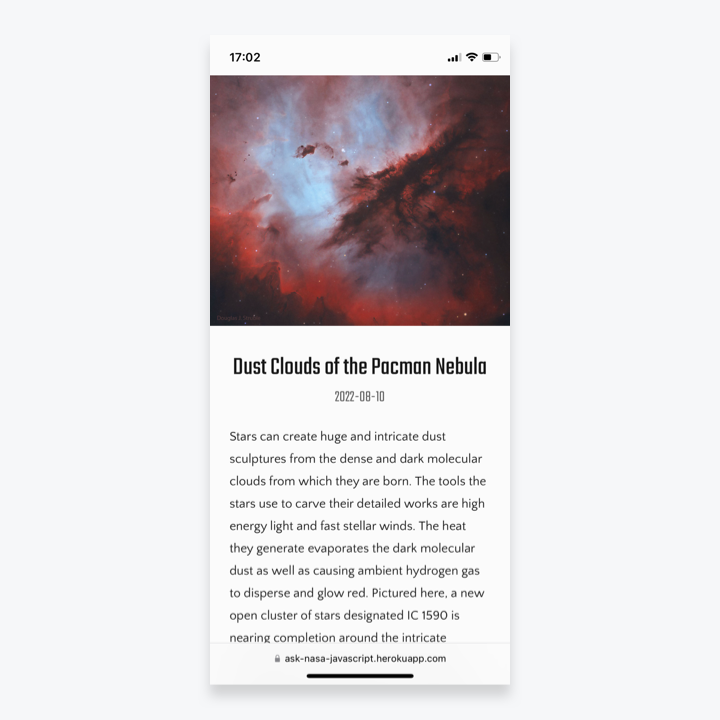
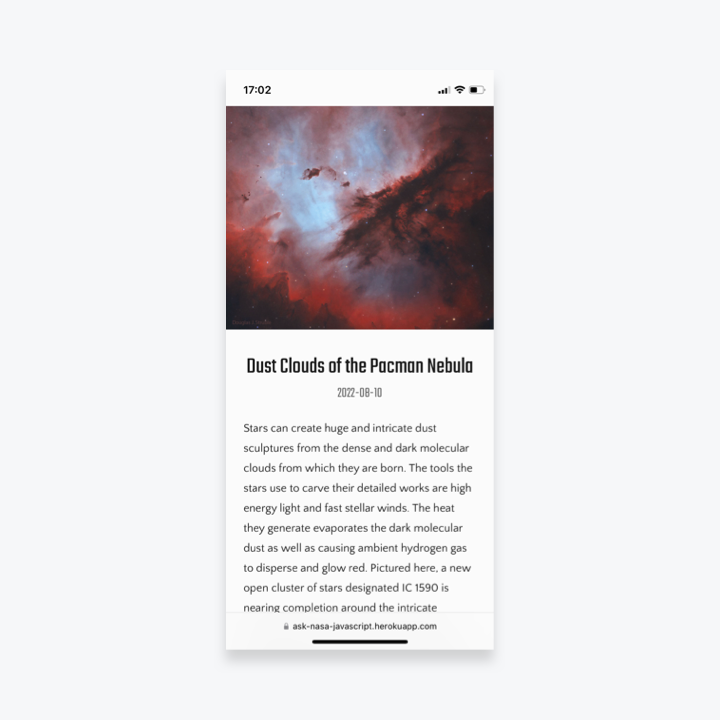
Update images

Changed region(s): [[0.275, 0.0611, 0.7333, 0.4583], [0.275, 0.4889, 0.7028, 0.9778]]

diff --git a/pages/works/[id].jsx b/pages/works/[id].jsx
@@ -71,9 +71,18 @@ const Work = ({ slug, frontmatter, content, images }) => {
           </div>
         }
 
-        <div>
+        <div className={styles.image_container}>
           {images.map((image) => {
-            return(<Image src={image} key={image} objectFit={'contain'} alt={image} width={1200} height={1200}/>)
+            return(<Image 
+              src={image} 
+              key={image} 
+              alt={image} 
+
+              width="100%" 
+              height="100%" 
+              layout="responsive" 
+              objectFit="contain" 
+              />)
           })}
         </div>
     </div>

diff --git a/components/about.jsx b/components/about.jsx
@@ -15,7 +15,7 @@ const About = () => {
         As a designer and developer, I’m interested in how to create experiences that are impactful, intuitive, and perhaps, even a bit delightful.
         </p>
         <p>
-        As a human, I’m frequently spotted drinking tea, staring at birds, and talking about my cats.
+        As a human, I’m frequently spotted drinking tea, reading books, and talking about my cats.
         </p>
       </div>
     </section>

diff --git a/pages/works/[id].module.scss b/pages/works/[id].module.scss
@@ -99,8 +99,6 @@
 		text-decoration: none;
 	}
 	
-
-
 	.btn_container {
 		display:flex;
 		flex-flow: row wrap;
@@ -108,6 +106,13 @@
 		column-gap: $spacing-small;
 		margin-top: $spacing-medium;
 	}
+
+	// .image_container {
+		
+	// 	width: 100%;
+	// 	height: 100%; 
+	// 	position: relative;
+	// }
 }
 
 .mySwiper {

diff --git a/components/navigation.module.scss b/components/navigation.module.scss
@@ -2,11 +2,11 @@
 
 .header {
 	position: fixed;
-	z-index: 9000;
-	width: 100%;
 	display: flex;
 	justify-content: space-between;
 	align-items: center;
+	width: 100%;
+	z-index: 9000;
 	background-color: $color-white;
 	padding: 0 $spacing-large;
 	box-shadow: rgba(0, 0, 0, 0.04) 0px 3px 5px;
